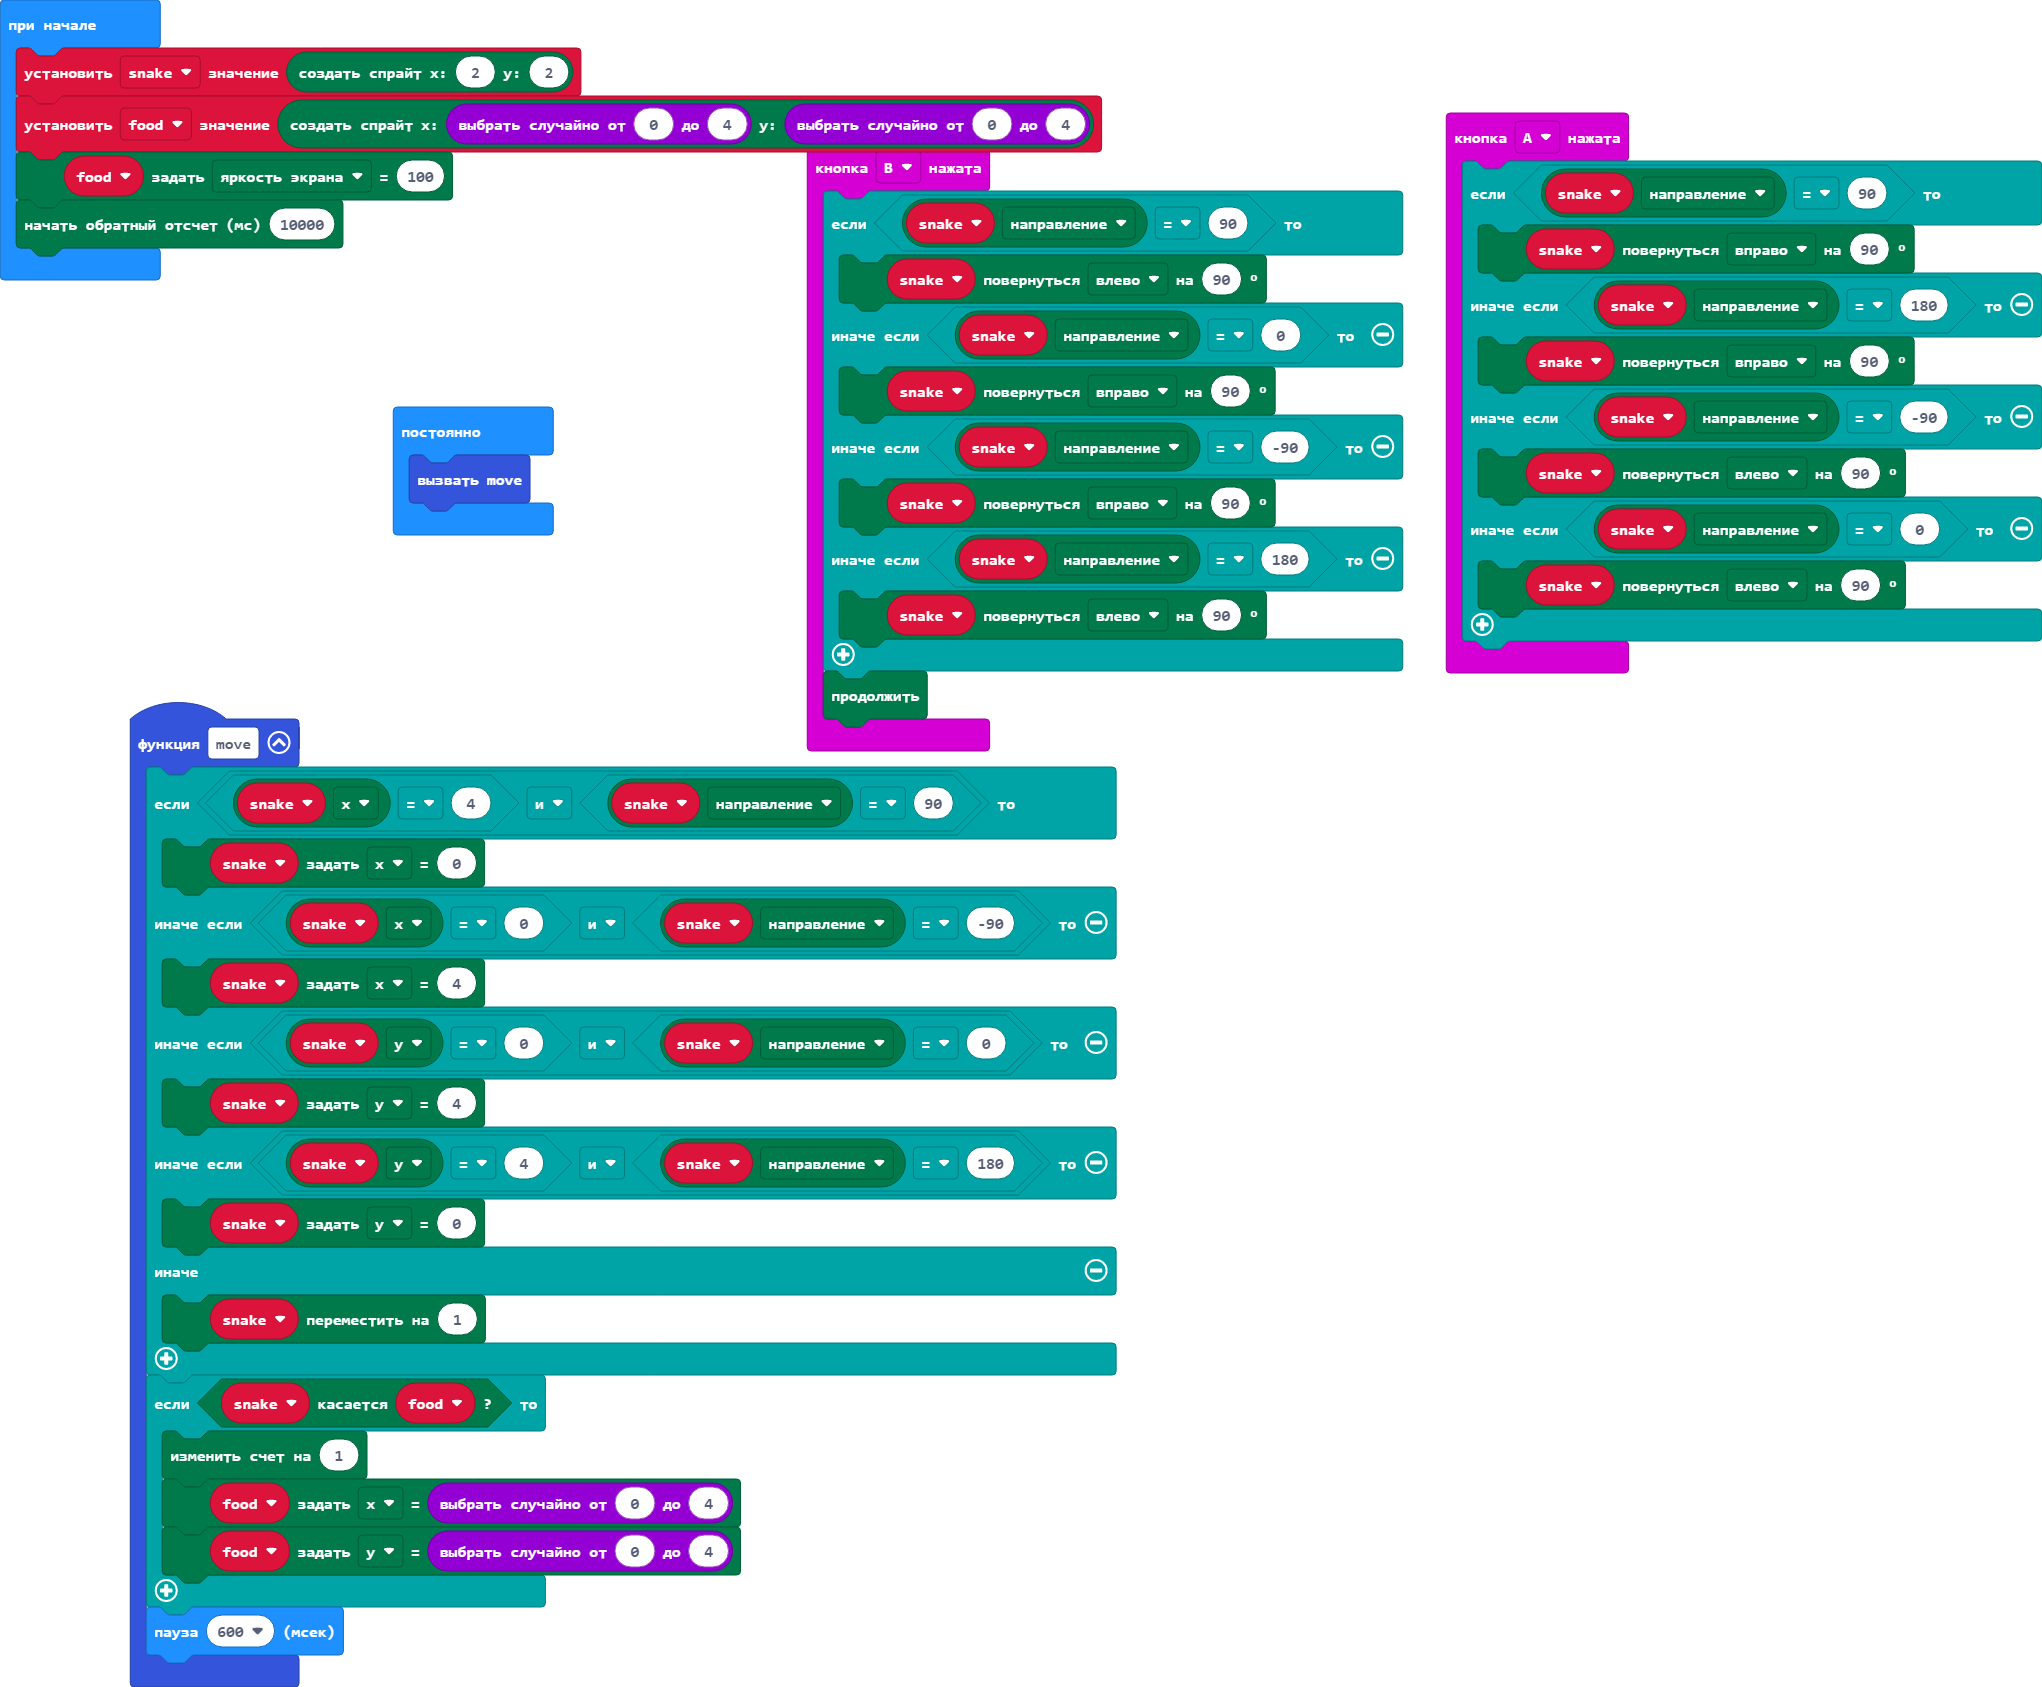
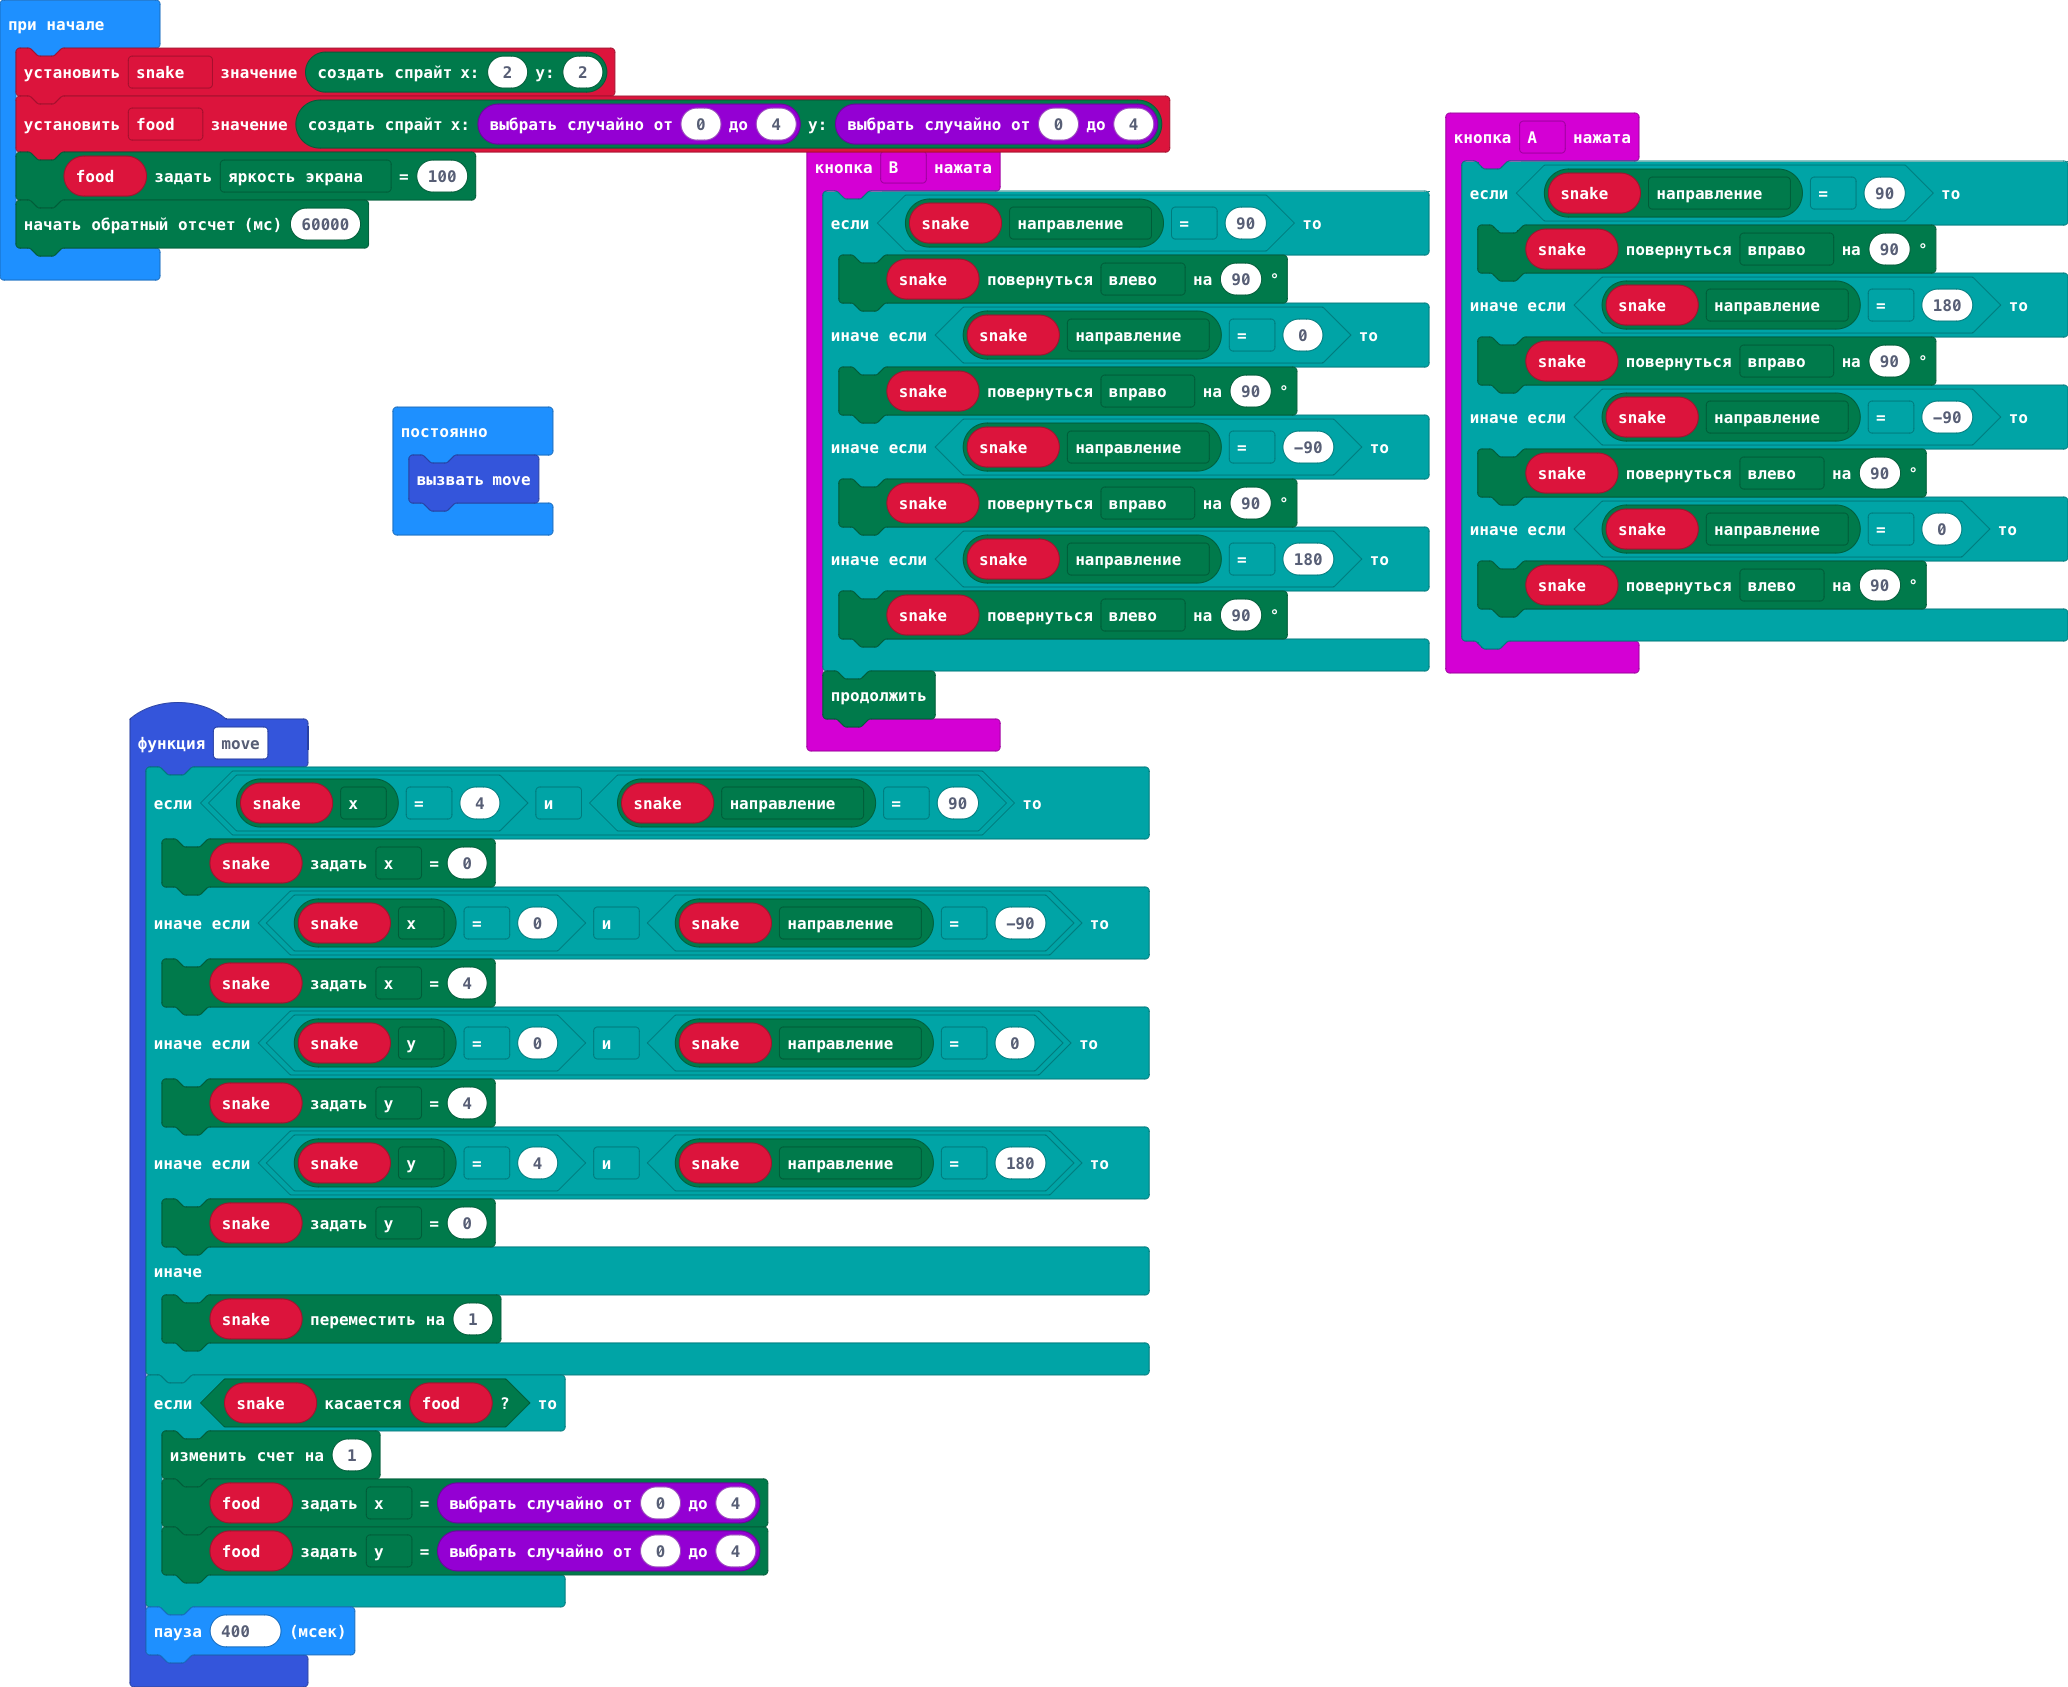
1 min

diff --git a/main.ts b/main.ts
@@ -38,14 +38,14 @@ function move () {
         food.set(LedSpriteProperty.X, randint(0, 4))
         food.set(LedSpriteProperty.Y, randint(0, 4))
     }
-    basic.pause(600)
+    basic.pause(400)
 }
 let food: game.LedSprite = null
 let snake: game.LedSprite = null
 snake = game.createSprite(2, 2)
 food = game.createSprite(randint(0, 4), randint(0, 4))
 food.set(LedSpriteProperty.Brightness, 100)
-game.startCountdown(10000)
+game.startCountdown(60000)
 basic.forever(function () {
     move()
 })
